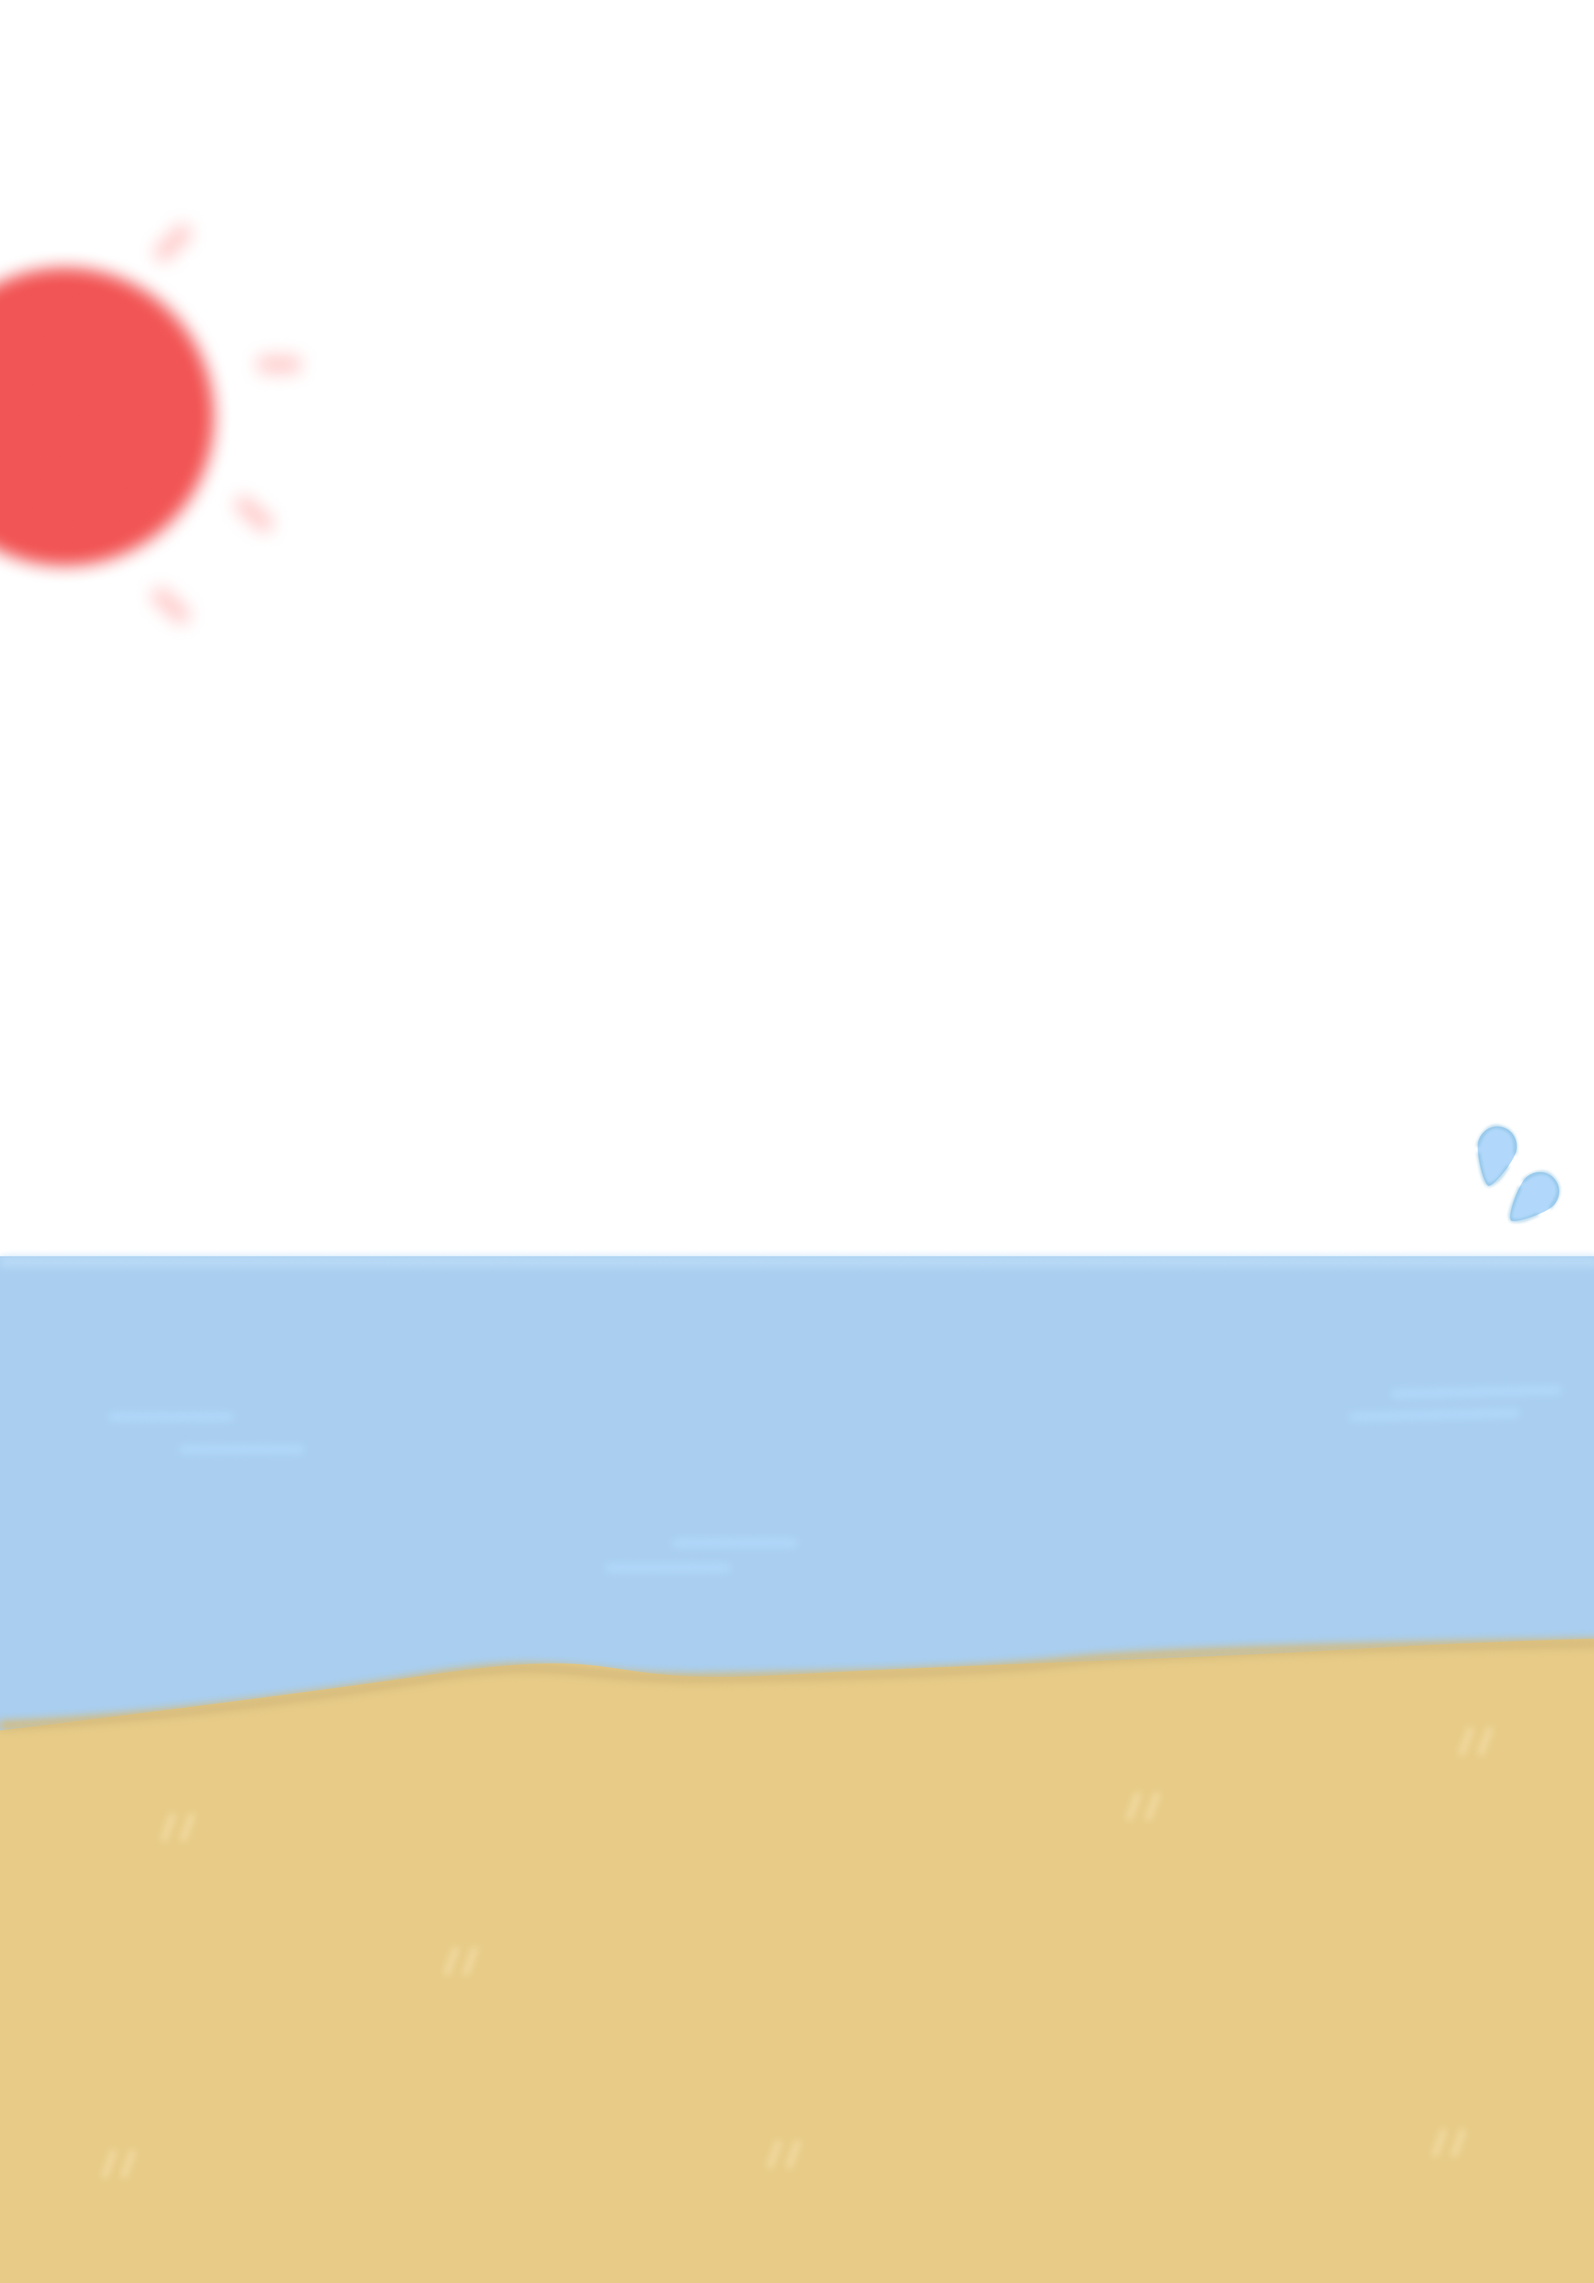
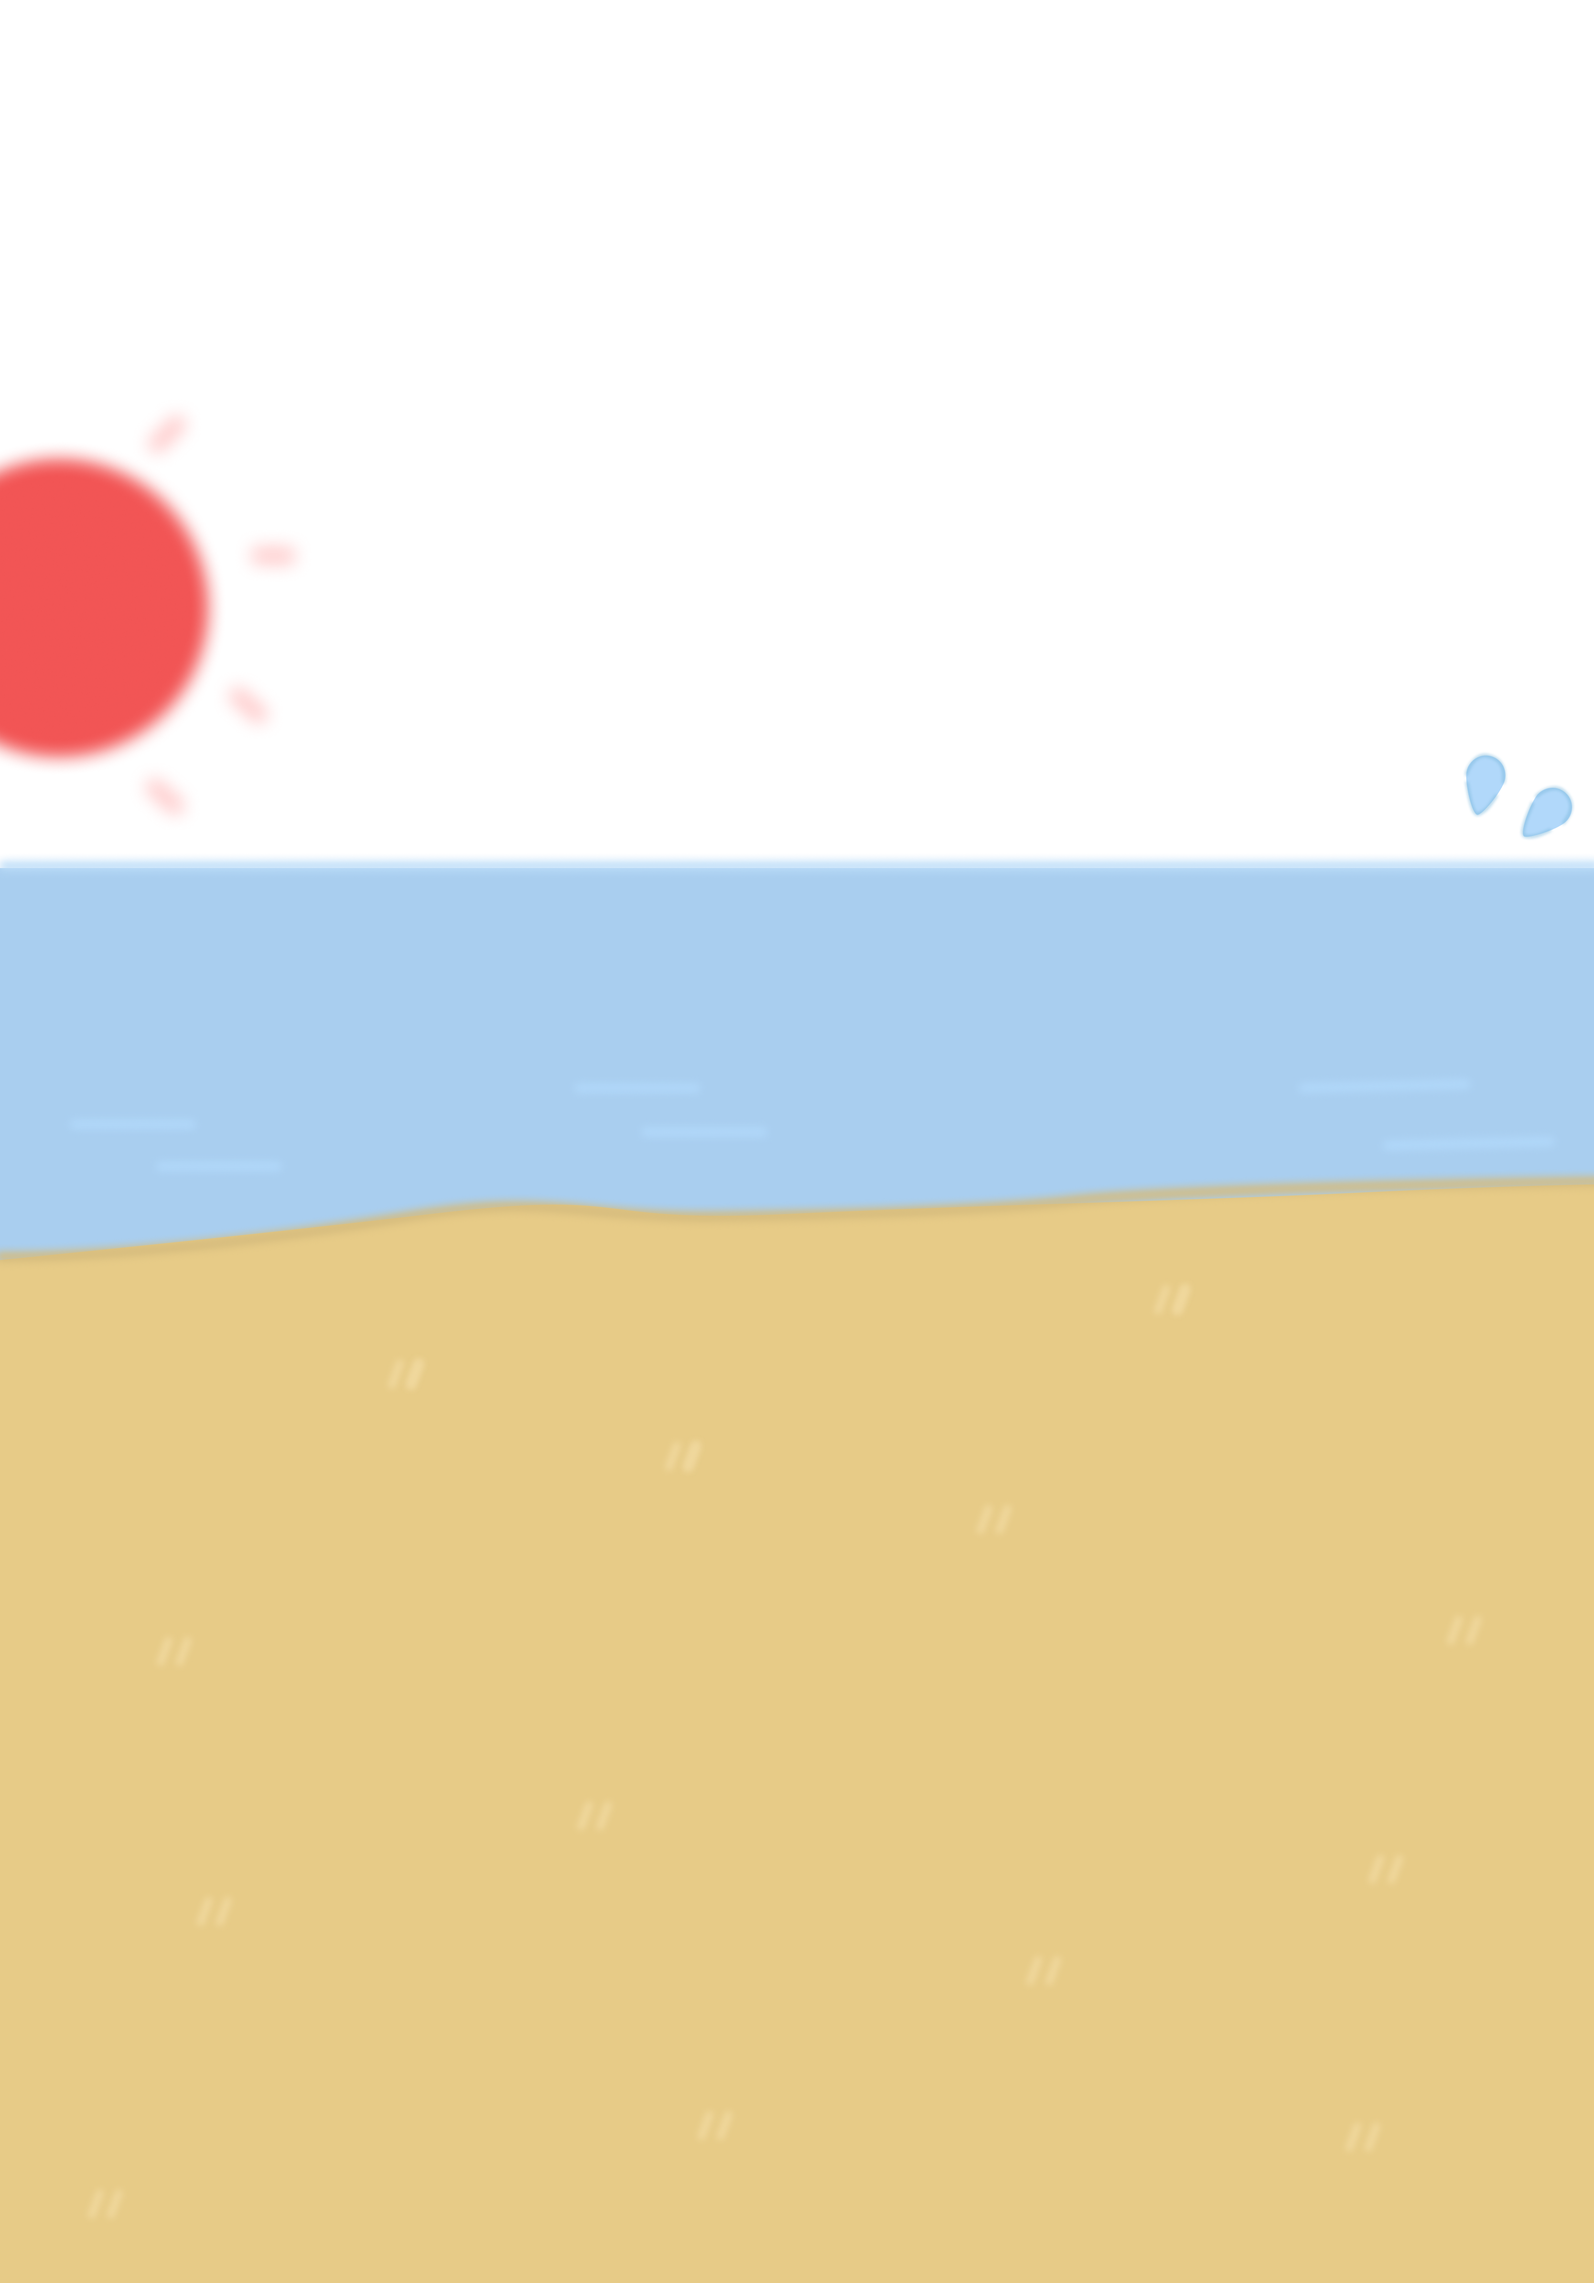
feat: 배경 이미지 수정

diff --git a/src/app/home/page.tsx b/src/app/home/page.tsx
@@ -6,6 +6,7 @@ import Image from 'next/image';
 import { useRouter } from 'next/navigation';
 import React from 'react';
 import { useAuthStore } from '@/stores/authStore';
+import { useMediaQuery } from 'react-responsive';
 
 const Page = () => {
   const user = useAuthStore((state) => state.user);
@@ -28,17 +29,46 @@ const Page = () => {
 
   const router = useRouter();
 
+  const isMobile = useMediaQuery({ maxWidth: 500 });
+  const isTablet = useMediaQuery({ minWidth: 501 });
+
+  // background 이미지 결정 로직
+  let bgUrl: string | undefined;
+
+  if (equippedBackground) {
+    if (equippedBackground.includes('cherryBlossom')) {
+      if (isTablet) {
+        bgUrl = '/images/background/cherryBlossom_tablet.png';
+      } else if (isMobile) {
+        bgUrl = '/images/background/cherryBlossom_mobile.png';
+      } else {
+        bgUrl = equippedBackground;
+      }
+    } else if (equippedBackground.includes('beach')) {
+      if (isTablet) {
+        bgUrl = '/images/background/beach_tablet.png';
+      } else if (isMobile) {
+        bgUrl = '/images/background/beach_mobile.png';
+      } else {
+        bgUrl = equippedBackground;
+      }
+    } else {
+      bgUrl = equippedBackground;
+    }
+  }
+
   return (
     <div
       className={clsx(
-        'h-screen px-4 sm:px-6 md:px-8 flex flex-col items-center justify-around py-9',
-        !equippedBackground && 'bg-center bg-no-repeat bg-cover'
+        'h-screen px-4 sm:px-6 md:px-8 flex flex-col items-center justify-around py-9'
       )}
       style={
-        equippedBackground
+        bgUrl
           ? {
-              backgroundImage: `url(${equippedBackground})`,
+              backgroundImage: `url(${bgUrl})`,
               backgroundSize: 'cover',
+              backgroundRepeat: 'no-repeat',
+              backgroundPosition: 'top center',
             }
           : undefined
       }
